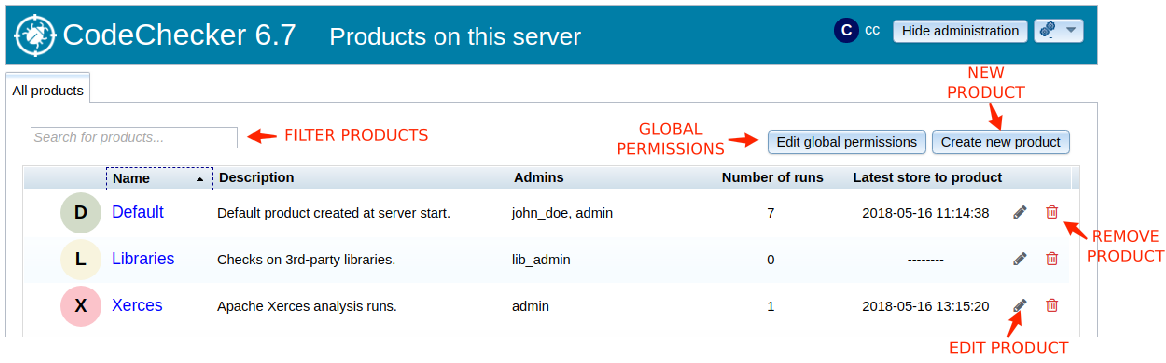
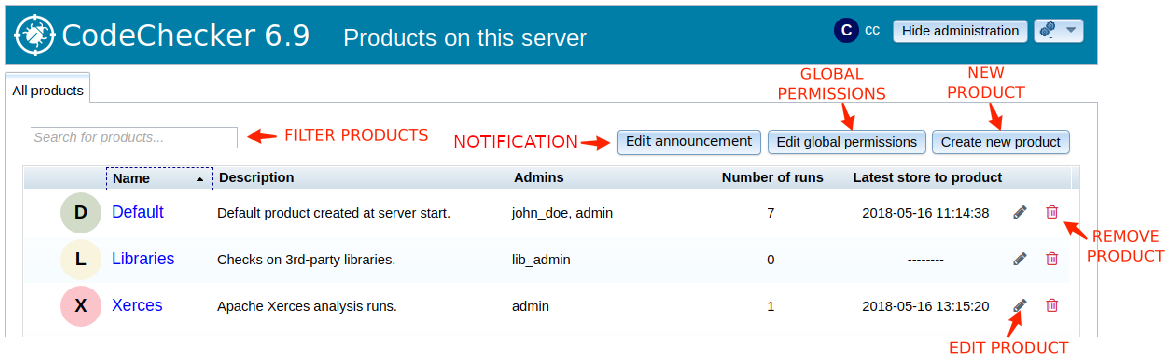
Extend docs with notification related info
Added Detailed explanation of the feature to the online userguide.

Changed region(s): [[0.0, 0.0606, 0.5249, 0.1515], [0.3705, 0.3333, 0.6792, 0.4545], [0.6484, 0.1818, 0.7719, 0.3636]]

diff --git a/www/userguide/userguide.md b/www/userguide/userguide.md
@@ -48,6 +48,8 @@ Table of Contents
   * [Bug path view](#userguide-bug-path-view)
   * [Comment](#userguide-comment)
 * [Run history](#userguide-run-history)
+* [Server configuration](#userguide-server-config)
+  * [Notification banner](#userguide-notification)
 
 # <a name="userguide-user-guide"></a> Products
 The product system allows a single CodeChecker server to serve multiple separate
@@ -416,3 +418,17 @@ happened during a storage process under the same run name. This way you can list
 the reports' state in the selected run event.
 
 ![Run history](images/run_history.png)
+
+# <a name="userguide-server-config"></a> Server Configuration
+## <a name="userguide-notification"></a> Global Notification banner
+There is an option to set a global notification text, that will show on top of every page over the CodeChecker logo. For every connecting client. 
+
+![Notification](images/notification.png)
+
+You can edit this alert on the products page, after enabling administration buttons, with "Edit announcement" button, but **Super User** permissions are necessary.
+
+![Products](images/products.png)
+
+You can remove the current notification by saving an empty text.
+
+![Notification Dialog](images/notificaiton_dialog.png)
